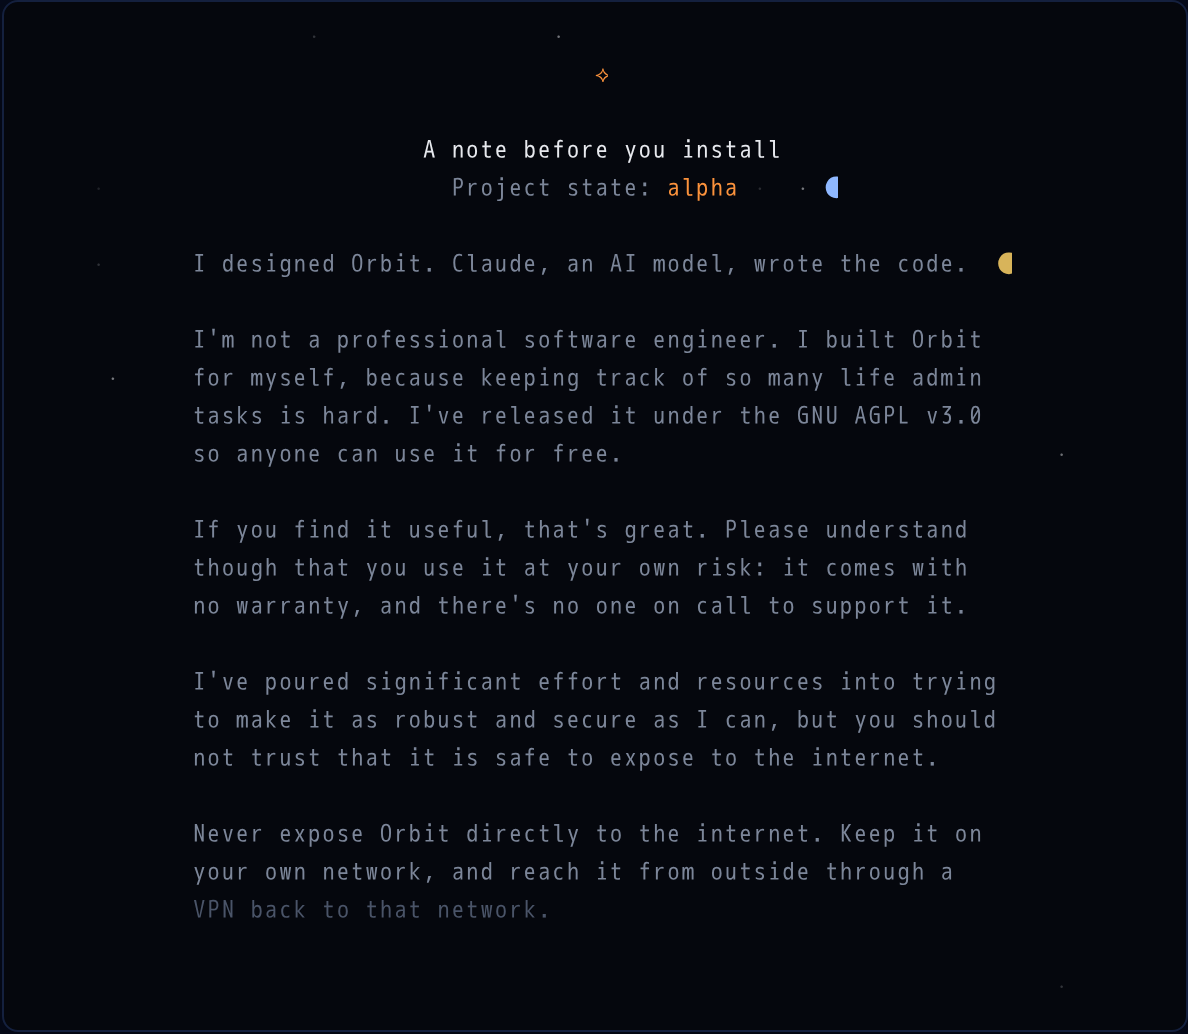
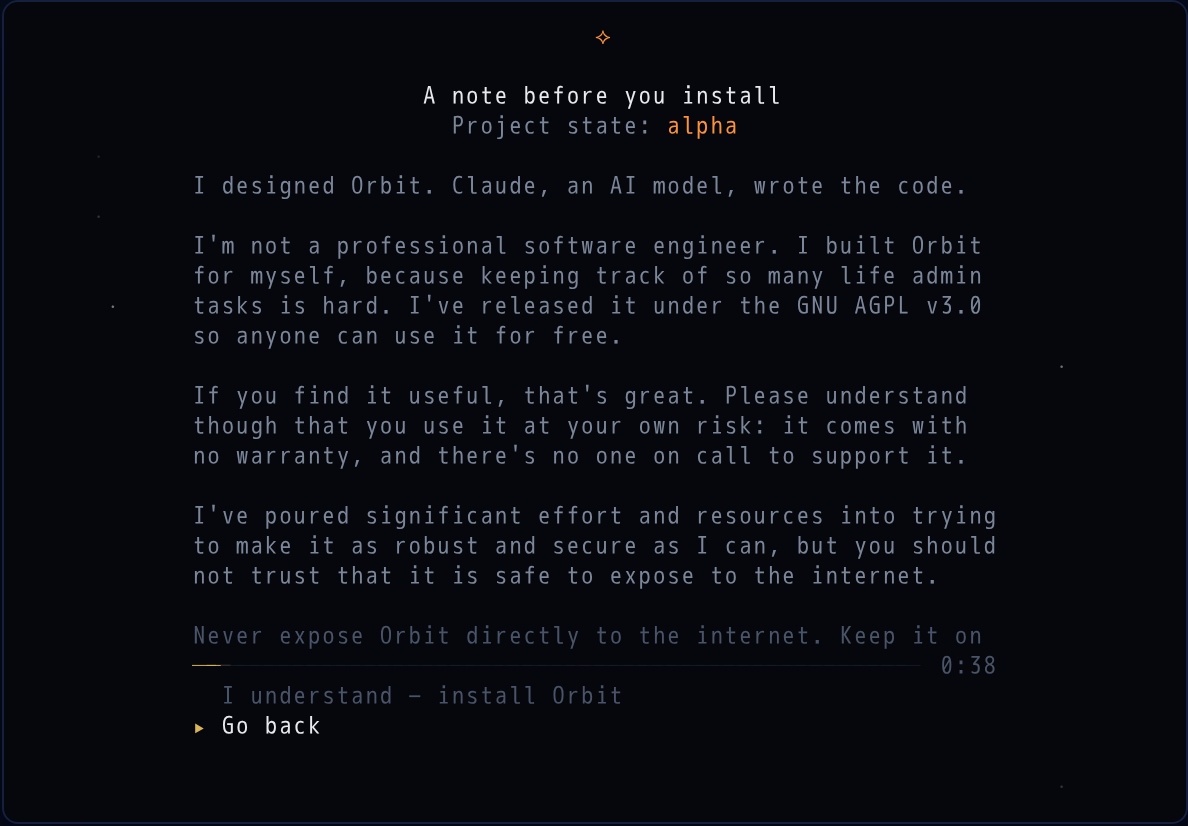
docs(design): pin the notice timer and choices in view, keep the sky off the block (#175)

diff --git a/design/mockups-v7-notice.html b/design/mockups-v7-notice.html
@@ -20,7 +20,7 @@
         box-shadow:0 18px 60px rgba(0,0,0,.5)}
   .cap{font-size:11px;color:#4a5468;margin:6px 2px 0;letter-spacing:.05em;max-width:72ch;line-height:1.6}
   pre.cells{margin:0;font-size:12px;line-height:15px;letter-spacing:0}
-  pre.cells span{display:inline-block;width:7.2px;overflow:hidden;text-align:center;
+  pre.cells span{display:inline-block;width:7.2px;overflow:visible;text-align:center;
                  font-family:"DejaVu Sans Mono",ui-monospace,Menlo,Consolas,monospace}
   .panel{font-size:12.5px;color:#7c8699;line-height:1.75;width:380px;max-width:100%;
          border:1px solid #14203e;border-radius:8px;padding:14px 20px 18px;position:sticky;top:24px}
@@ -39,7 +39,8 @@
 <h1>orbit-launcher · v7 — the development notice · #175</h1>
 <div class="sub">
   One new screen in the Install flow: profile → confirm → <b>notice</b> → mission console.
-  Two things gate the install: the notice has been on screen to its end, and a 40-second timer has run out.
+  Two things gate the install: the prose has been on screen to its last line, and a 40-second timer has run out.
+  The timer and the two choices are pinned in view from the first frame; only the prose scrolls.
   Cell-truth renders, colours from <code>internal/ui/style/style.go</code>, every glyph one the app already draws.
   The sky and the countdown animate as the app would (10 fps, whole-cell steps); both stop under
   <code>prefers-reduced-motion</code>. Nothing here is approved yet.
@@ -51,37 +52,38 @@
 <section>
   <h2><span>a</span> First view — 80×26, the house minimum</h2>
   <div class="term scene" id="scene-a"><pre class="cells" id="n-a" role="img"
-    aria-label="Notice screen at 80 by 26 cells: amber orbit mark, bold title A note before you install, Project state alpha, five paragraphs of prose; the last visible row is drawn faint. The timer and the two choices are below the bottom edge, out of view."></pre></div>
-  <div class="cap">Header pinned; prose fills the rest. The last visible row steps down to faint — the
-    only sign needed that there is more. The timer and the choices are below the edge; the timer is
-    already running.</div>
+    aria-label="Notice screen at 80 by 26 cells: amber orbit mark, bold title A note before you install, Project state alpha, then prose whose last visible row is faint and cut mid-sentence. Pinned beneath: a thin timer line just starting to fill gold with 0:38 at its end, the accept choice drawn faint, and the caret on Go back."></pre></div>
+  <div class="cap">Header and the bottom region (timer, two choices) are pinned; only the prose between
+    them scrolls. The last visible prose row steps down to faint and is cut mid-sentence: the sign
+    there is more. The countdown is already running; Go back carries the caret; the accept row is
+    faint — not a choice yet.</div>
 </section>
 
 <section>
   <h2><span>b</span> Scrolled partway — one row down</h2>
   <div class="term scene" id="scene-b"><pre class="cells" id="n-b" role="img"
-    aria-label="Same screen scrolled one row: the first visible prose row is faint; the timer row has scrolled into view at the bottom, a thin line part filled in gold with the seconds left at its right end. The choices are still hidden."></pre></div>
-  <div class="cap">Faint at both edges now: text above, more below. The timer row has entered the
-    viewport — a thin line filling gold, the seconds left at its end — and the choices are still
-    below it.</div>
+    aria-label="Same screen scrolled one row: the first visible prose row is faint, the last visible prose row is faint; the pinned timer line is a little fuller."></pre></div>
+  <div class="cap">Faint at both edges now: text above, more below. The pinned region has not moved;
+    the line has filled a little further.</div>
 </section>
 
 <section>
   <h2><span>f</span> End reached, timer still running</h2>
   <div class="term scene" id="scene-f"><pre class="cells" id="n-f" role="img"
-    aria-label="Scrolled to the end: the timer line is about two thirds gold with the seconds left at its end; beneath it the accept choice is drawn faint and inert, and the caret sits on Go back. The countdown animates to zero, then the line disappears and the accept choice brightens."></pre></div>
-  <div class="cap">A fast scroller. Go back already carries the caret; the accept row is faint — not
-    yet a choice. The line fills a cell every 0.8 s and the number ticks each second. At 0:00 the row
-    goes blank and the accept row brightens to muted: now selectable. The caret does not move by
-    itself. (Animates here; loops.)</div>
+    aria-label="Scrolled to the end: no faint row at the bottom, the last line of prose is fully in view; the timer line is about two thirds gold with the seconds left at its end; the accept choice is still faint, the caret on Go back. The countdown animates to zero, then the line disappears and the accept choice brightens."></pre></div>
+  <div class="cap">A fast scroller: the prose has reached its last line, so the bottom fade is gone,
+    but the timer is still running. The line fills a cell every 0.8 s and the number ticks each
+    second. At 0:00 the row goes blank and the accept row brightens to muted: now selectable. The
+    caret does not move by itself. (Animates here; loops.)</div>
 </section>
 
 <section>
   <h2><span>c</span> Timer done, end reached — accept selected</h2>
   <div class="term scene" id="scene-c"><pre class="cells" id="n-c" role="img"
-    aria-label="Scrolled to the end with no timer row: the caret is on I understand, install Orbit, drawn bright; Go back muted beneath it."></pre></div>
+    aria-label="Scrolled to the end with the timer row blank: the caret is on I understand, install Orbit, drawn bright; Go back muted beneath it."></pre></div>
   <div class="cap">Both gates passed; the person pressed <kbd>↑</kbd> to move the caret from Go back
-    onto the accept row. <kbd>↵</kbd> now starts the install. The timer row is simply blank.</div>
+    onto the accept row. <kbd>↵</kbd> now starts the install. The timer row is simply blank, the
+    gap it always was.</div>
 </section>
 
 <section>
@@ -96,9 +98,9 @@
   <h2><span>e</span> A tall terminal — 120×50, everything fits</h2>
   <div class="term scene" id="scene-e"><pre class="cells" id="n-e" role="img"
     aria-label="Notice at 120 by 50 cells on arrival: the whole block sits at the optical centre, no faint rows, the timer line just starting at 0:40, caret on Go back, accept faint. The countdown animates to zero here."></pre></div>
-  <div class="cap">No scrolling exists, so none is asked for; the timer is the only gate. The block sits
-    at the 0.42 optical centre like every other screen; the measure stays 56 columns. (Animates here
-    from 0:40; loops.)</div>
+  <div class="cap">Nothing to scroll, so nothing is asked for; the timer is the only gate. Header, prose
+    and bottom region are one block at the 0.42 optical centre like every other screen; the measure
+    stays 56 columns. (Animates here from 0:40; loops.)</div>
 </section>
 
 </div>
@@ -112,17 +114,21 @@
     edge. Scrolled down, the top row goes faint too. That is the whole signal: no hint text, no corner
     glyph, no scroll track — the house has none, and a cut-off sentence is a thing everyone knows how
     to finish. A scroll track was considered and dropped: it adds a column of noise to say "a little
-    more", and position does not matter for a text this short.</p>
+    more", and position does not matter for a text this short. Where the cut lands depends on the
+    terminal's height; the faint row is the cue that is always there, the hanging sentence a bonus
+    (at 80×26 it is the first line of the "Never expose" paragraph).</p>
 
   <h3>2 · Where the choices live, and the three states of accept</h3>
-  <p>The timer row and the two choices are the <b>last three rows of the document</b>, so they scroll
-    in with the text. Go back is live whenever it is on screen and takes the caret by default. The
-    accept row has three looks: <b>faint</b> while either gate is open (not a choice yet),
-    <b>muted</b> once both gates are passed (selectable), <b>bright with the gold caret</b> when
-    selected. The caret never moves on its own: when accept opens up, the person moves to it with
-    <kbd>↑</kbd>. Nothing is pinned under the text: a second fixed region breaks the one-block
-    grammar every screen shares, and a greyed-out button with no hint allowed is a mystery; a row
-    that brightens next to a line that just finished filling explains itself.</p>
+  <p>The timer row and the two choices are <b>pinned at the bottom of the frame</b>, in view from the
+    first frame at every size; only the prose between the header and them scrolls. Go back takes the
+    caret from the start, so the way out is visible before anything is read. The accept row has
+    three looks: <b>faint</b> while either gate is open (not a choice yet), <b>muted</b> once both
+    are passed (selectable), <b>bright with the gold caret</b> when selected. The caret never moves
+    on its own: when accept opens up, the person moves to it with <kbd>↑</kbd>. A faint row that
+    brightens beside a line that just finished filling explains itself without a hint. In the view
+    this is still one content block (header lines, the visible prose rows, the bottom rows) handed to
+    the same centring as every screen; the "pinning" is only that the first and last rows never
+    scroll.</p>
 
   <h3>3 · Every install</h3>
   <p><b>Every install</b>, not once per machine. The notice is the install's own gate, like the
@@ -135,20 +141,21 @@
     back. <kbd>Home</kbd> <kbd>End</kbd> top and bottom — End is a legitimate way to reach the end;
     blocking it would be pretend security, and the timer covers the reading time anyway. Wheel:
     three rows a notch, with mouse reporting switched on for this view only (Bubble Tea v2 sets it
-    per view), so text selection on other screens is untouched. Arrows move the caret when the row
-    they would land on is a live choice, and scroll the text otherwise — so <kbd>↑</kbd> from Go back
-    goes to accept once it is open, and scrolls the prose back up while it is not. <b><kbd>↵</kbd>
-    acts on the caret only</b>: before Go back is on screen it does nothing — it is the commit key
-    everywhere else, and letting it page would turn a quick triple <kbd>↵</kbd> from the confirm
-    screen into something it should not be. <b><kbd>esc</kbd> is Go back at any moment</b>, timer or
-    no timer: one step, to Ready to install, the same step the confirm screen's own <kbd>esc</kbd>
-    takes.</p>
+    per view), so text selection on other screens is untouched. <kbd>↓</kbd> <kbd>↑</kbd> scroll
+    the prose until its last line has been on screen; from then on they move the caret between the
+    two choices (<kbd>↑</kbd> onto accept only once it is open), and PgUp/PgDn/Home/End/wheel keep
+    scrolling the prose. <b><kbd>↵</kbd> acts on the caret</b>, which starts on Go back — so a
+    quick triple <kbd>↵</kbd> from the confirm screen lands back on Ready to install, never in an
+    install. <b><kbd>esc</kbd> is Go back at any moment</b>, timer or no timer: one step, to Ready to
+    install, the same step the confirm screen's own <kbd>esc</kbd> takes.</p>
 
   <h3>5 · 80×26, and tall</h3>
-  <p>At 80×26 the header (⟡, title, state, with a blank row above and below) takes six rows, two
-    rows of sky stay clear beneath the block, and the viewport is the eighteen between; the document
-    is twenty-one rows, so <b>the timer and the two choices hang below the edge</b> and three rows
-    of scrolling reveal them. (At 80×24, a common default, the final paragraph hides too.) On a tall
+  <p>At 80×26 the header (blank, ⟡, blank, title, state, blank) takes six rows and the bottom
+    region (timer, accept, Go back, blank) four, leaving a sixteen-row viewport for eighteen rows of
+    prose: <b>the "Never expose" paragraph hangs below the edge</b> and two rows of scrolling reveal
+    it. "The end" is the prose's last line having been on screen. (At 80×24, a common default, the
+    viewport is fourteen rows.) At the minimum size the block fills the frame top to bottom, so
+    the 0.42 placement collapses to zero — there is no spare room, and none is needed. On a tall
     terminal nothing scrolls and nothing pretends to: the block centres as on every screen, Go back
     carries the caret, and the timer is the only gate. The scroll requirement is "the whole notice
     has been on screen", not "a scroll happened" — a forced scroll with nothing to scroll would be
@@ -163,17 +170,14 @@
     <code>─</code> cells filling gold over the <code>BorderSoft</code> track (the mission console's
     own bar, at 50 cells one cell per 0.8 s, whole-cell steps) with the seconds left as a faint
     <code>m:ss</code> at its end (the console's clock format). No percentage. When it reaches 0:00
-    the row goes blank — the gate is gone, so its object is gone — and the accept row brightens.
-    <b>Why in the block and not pinned:</b> pinned, it would tick in the corner of the eye for the
-    whole read, which is a cookie-banner timer; in the block it is seen by exactly the people it
-    affects, the ones who reach the end before the time is up. On a tall terminal it is in view
-    from the start, next to the thing it gates. It is not a motion beat, so
-    <code>ORBIT_LAUNCHER_NO_ANIMATION</code> does not skip it — without the sky's tick chain it
-    needs its own one-second tick.</p>
+    the row goes blank — the gate is gone, so its object is gone — and, if the prose has also been
+    read to its end, the accept row brightens. It sits directly under the prose and directly above
+    the thing it gates, in view from the first frame at every size, faint enough not to pull the eye
+    off the text. It is not a motion beat, so <code>ORBIT_LAUNCHER_NO_ANIMATION</code> does not skip
+    it — without the sky's tick chain it needs its own one-second tick.</p>
   <p><b>Order does not matter.</b> End first: the person waits by the choices with the line filling
-    (scene f). Timer first: the line has already vanished when they scroll to the end, and the
-    accept row is already muted — to a slow reader at 80×26 the timer never existed. Either way the
-    caret is on Go back until they move it.</p>
+    (scene f). Timer first: the line vanishes while they are still reading; accept brightens the
+    moment the last line scrolls in. Either way the caret is on Go back until they move it.</p>
 
   <div class="prop">
     <h3>Proposal · choice wording</h3>
@@ -185,7 +189,19 @@
   <p>Amber ⟡, as the flow's two other cautionary screens use (stale volume, unavailable profile).
     "alpha" in the same amber — the one state colour, twice, as the splash pairs mark and status word.
     Prose left-aligned as one 56-column block, centred as a block: the sign-in screen's ratified
-    grammar. No foot. The timer length should be a variable so tests can shorten it.</p>
+    grammar. Every line of the view, header included, is padded to the block's width plus a two-cell
+    gutter each side (60 cells), so <code>compositeScene</code> keeps the sky — stars and planets —
+    out of that rectangle, as it does under any padded line today. No foot. The timer length should
+    be a variable so tests can shorten it.</p>
+
+  <h3>Changed since the first pass</h3>
+  <p>· Timer and choices were the document's tail and started below the fold at 80×26; now they are
+    pinned and in view from the first frame, and only the prose scrolls.<br>
+    · Planets sat flush against the text; every line is now padded to a 60-cell rectangle the sky
+    never enters.<br>
+    · The renderer clipped wide glyphs, so the em dash and ● drew as a short dash and a half disc;
+    cells no longer clip. The labels use the em dash as approved.<br>
+    · Arrow keys: a simpler rule now that the choices do not scroll (see 4).</p>
 </aside>
 </div>
 
@@ -254,6 +270,7 @@ const CHOICES=["I understand — install Orbit","Go back"];
 const MEASURE=56;
 const TIMER_S=40;          // 144 words / 238 wpm = 36.3 s, rounded up to the next ten
 const BAR_CELLS=MEASURE-6; // the line, then two spaces and m:ss
+const GUTTER=2;            // every view line is padded to MEASURE+2*GUTTER; the sky stays outside
 function wrap(s,w){
   const out=[]; let line="";
   s.split(" ").forEach(function(word){
@@ -263,15 +280,13 @@ function wrap(s,w){
   if(line)out.push(line);
   return out;
 }
-// document rows: {kind:"prose"|"blank"|"timer"|"choice", text, idx}
+// document rows (the prose only): {kind:"prose"|"blank", text}
 function buildDoc(){
   const d=[];
   PARAS.forEach(function(p,i){
     if(i)d.push({kind:"blank"});
     wrap(p,MEASURE).forEach(function(l){d.push({kind:"prose",text:l});});
   });
-  d.push({kind:"timer"});
-  CHOICES.forEach(function(c,i){d.push({kind:"choice",text:c,idx:i});});
   return d;
 }
 const DOC=buildDoc();
@@ -281,20 +296,20 @@ function clock(sec){const m=Math.floor(sec/60),s=sec%60;return m+":"+(s<10?"0":"
 // state: offset (first visible document row), sel (0 accept, 1 go back),
 // elapsed (seconds since the screen appeared; the timer runs from there),
 // run (animate the countdown from `elapsed`, looping).
-// Header: blank, ⟡, blank, title, state, blank — the pinned rows the Go
-// view would emit; viewport = H - 8 rows (two rows of sky stay clear
-// beneath the block); skyBlock's 0.42 optical centre
-// positions the whole content block when it is shorter than the screen.
+// The view is one content block: header (blank, ⟡, blank, title, state,
+// blank), the visible prose rows, then the bottom region (timer, accept,
+// Go back, blank). Viewport = H - 10 rows; skyBlock's 0.42 optical centre
+// positions the block when it is shorter than the screen.
 function noticeScreen(id,W,H,state){
   const S=mkScreen(id,W,H); if(!S)return;
   const CX=Math.floor(W/2), CY=Math.floor(H/2)-1;
   const stars=mkStars(Math.round(W*H/38), 6, Math.floor(W/2)+6);
-  const viewport=H-8;                           // header 6 rows + a two-row margin below
+  const viewport=H-10;                          // header 6 rows + bottom region 4 rows
   const fits=DOC.length<=viewport;
   const offset=fits?0:Math.min(state.offset, DOC.length-viewport);
   const endReached=fits||offset+viewport>=DOC.length;
   const visible=DOC.slice(offset, offset+viewport);
-  const nLines=6+visible.length;                 // blank + 5 header rows + viewport rows
+  const nLines=6+visible.length+4;               // header + viewport rows + bottom region
   const top=Math.floor(0.42*(H-1-nLines));
   const left=CX-Math.floor(MEASURE/2);          // the block's left edge
 
@@ -304,37 +319,36 @@ function noticeScreen(id,W,H,state){
   if(!endReached){for(let i=visible.length-1;i>=0;i--)if(visible[i].kind==="prose"){fadeBot=i;break;}}
 
   let t=0, elapsed=state.elapsed||0;
-  function clear(row,c,n){for(let x=0;x<n;x++)S.put(row,c+x," ",TEXT);}
+  function clear(row){for(let x=left-GUTTER;x<left+MEASURE+GUTTER;x++)S.put(row,x," ",TEXT);}
   function frame(){
     const timerDone=elapsed>=TIMER_S;
     const acceptLive=timerDone&&endReached;
     S.reset();
     drawStars(S,stars,t,CX,CY);
     drawSystems(S,t);
+    for(let y=top;y<top+nLines;y++)clear(y);     // the whole block is padded: no sky inside it
     let r=top+1;
     S.put(r,CX,"⟡",AMBER); r+=2;
-    clear(r,CX-Math.floor(TITLE.length/2),TITLE.length);
     S.str(r,CX-Math.floor(TITLE.length/2),TITLE,TEXT,{b:1}); r++;
     const st=STATE_LABEL+STATE_WORD, sx=CX-Math.floor(st.length/2);
-    clear(r,sx,st.length);
     S.str(r,sx,STATE_LABEL,MUTED); S.str(r,sx+STATE_LABEL.length,STATE_WORD,AMBER); r+=2;
     visible.forEach(function(row,i){
-      clear(r+i,left,MEASURE);                     // every line is padded to the block width, so it covers the sky
       const faded=(i===fadeTop||i===fadeBot);
-      if(row.kind==="prose"){S.str(r+i,left,row.text,faded?FAINT:MUTED);}
-      else if(row.kind==="timer"){
-        if(timerDone)return;                       // the gate is gone, so is its object
-        const fill=Math.floor(elapsed/TIMER_S*BAR_CELLS);
-        for(let x=0;x<BAR_CELLS;x++)S.put(r+i,left+x,"─",x<fill?GOLD:TRACK);
-        S.str(r+i,left+BAR_CELLS+2,clock(Math.ceil(TIMER_S-elapsed)),FAINT);
-      }
-      else if(row.kind==="choice"){
-        const isAccept=row.idx===0;
-        const live=isAccept?acceptLive:true;
-        const selected=live&&row.idx===state.sel;
-        if(selected)S.put(r+i,left,"▸",GOLD);
-        S.str(r+i,left+2,row.text,selected?TEXT:(live?MUTED:FAINT));
-      }
+      if(row.kind==="prose")S.str(r+i,left,row.text,faded?FAINT:MUTED);
+    });
+    r+=visible.length;
+    // bottom region: timer row (blank once done — the gate is gone, so is its object), then the choices
+    if(!timerDone){
+      const fill=Math.floor(elapsed/TIMER_S*BAR_CELLS);
+      for(let x=0;x<BAR_CELLS;x++)S.put(r,left+x,"─",x<fill?GOLD:TRACK);
+      S.str(r,left+BAR_CELLS+2,clock(Math.ceil(TIMER_S-elapsed)),FAINT);
+    }
+    r++;
+    CHOICES.forEach(function(label,idx){
+      const live=idx===0?acceptLive:true;
+      const selected=live&&idx===state.sel;
+      if(selected)S.put(r+idx,left,"▸",GOLD);
+      S.str(r+idx,left+2,label,selected?TEXT:(live?MUTED:FAINT));
     });
     S.render();
   }
